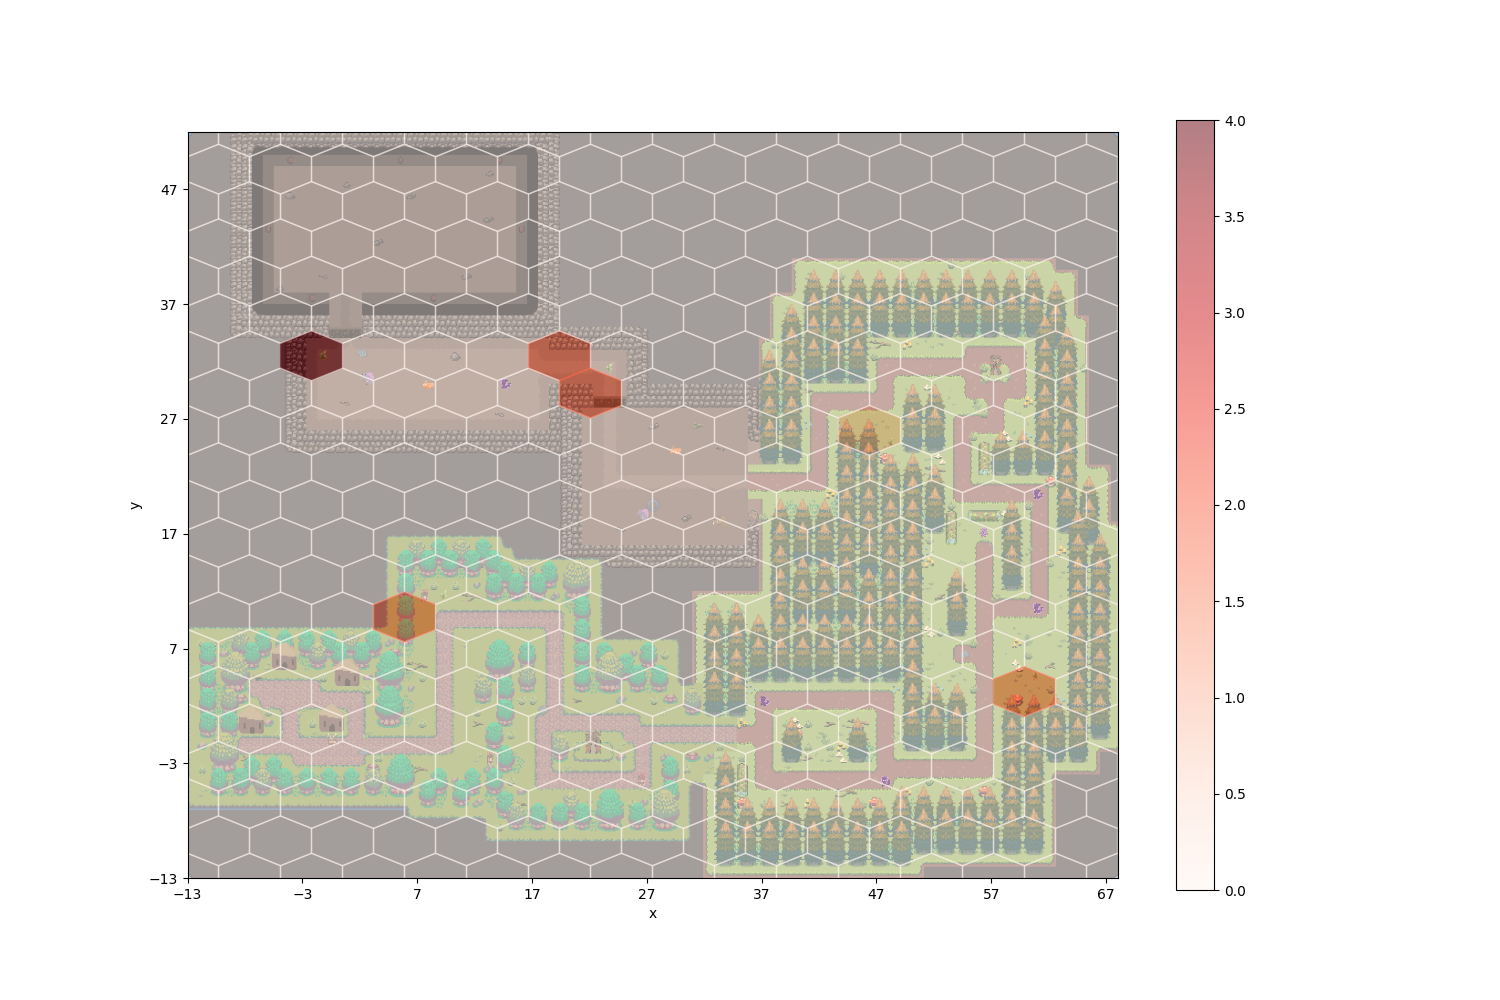
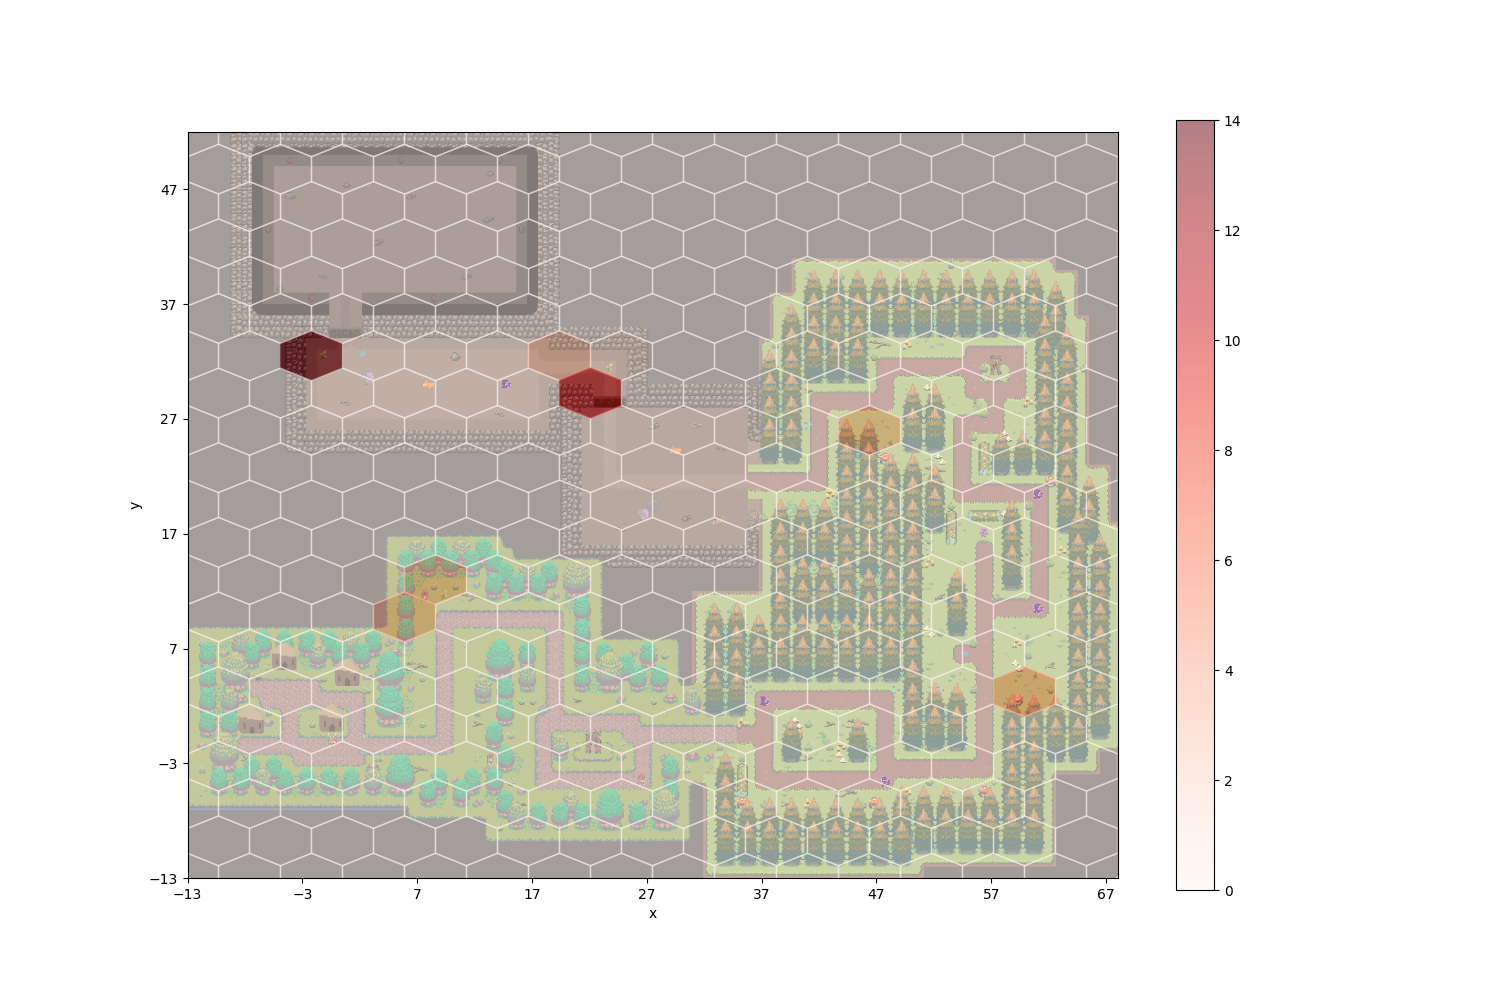
Añadidos graficos de uso de poderes de dinosaurios y todos los csv

Changed region(s): [[0.3373, 0.31, 0.4293, 0.434], [0.2453, 0.558, 0.3067, 0.651]]

diff --git a/analysis/analyze.py b/analysis/analyze.py
@@ -142,8 +142,10 @@ def main() -> None:
     generate_percentages(True, gamesMetricsDataFrame, 'spearPicks', 'Porcentaje de partidas en las que se ha recogido la lanza', f'{resultsPath}spearPickedPercent', ['Cogida', 'No Cogida'], 0)
     generate_percentages(True, gamesMetricsDataFrame, 'plantUses', 'Porcentaje de partidas en las que se han usado las plantas', f'{resultsPath}plantsUsedPercent', ['Usada', 'No Usada'], 0)
     generate_percentages(True, gamesMetricsDataFrame, 'spearUses', 'Porcentaje de partidas en las que se ha usado la lanza', f'{resultsPath}spearUsedPercent', ['Usadas', 'No Usadas'], 0)
-    generate_percentages(False, gamesMetricsDataFrame, 'tricePicked', 'Porcentaje de partidas en las que se ha recogido el Triceratpos', f'{resultsPath}tricePercent', ['Recogido', 'No Recogido'],0)
+    generate_percentages(False, gamesMetricsDataFrame, 'tricePicked', 'Porcentaje de partidas en las que se ha recogido el Triceratops', f'{resultsPath}tricePercent', ['Recogido', 'No Recogido'],0)
     generate_percentages(False, gamesMetricsDataFrame, 'ankyloPicked', 'Porcentaje de partidas en las que se ha recogido el Anquilosaurio', f'{resultsPath}ankyloPercent', ['Recogido', 'No Recogido'],0)
+    generate_percentages(True, gamesMetricsDataFrame, 'triceUses', 'Porcentaje de partidas en las que se ha usado el Triceratops', f'{resultsPath}triceUsedPercent', ['Usado', 'No Usado'],0)
+    generate_percentages(True, gamesMetricsDataFrame, 'ankyloUses', 'Porcentaje de partidas en las que se ha usado el Anquilosaurio', f'{resultsPath}ankyloUsedPercent', ['Usado', 'No Usado'],0)
    
     
 
